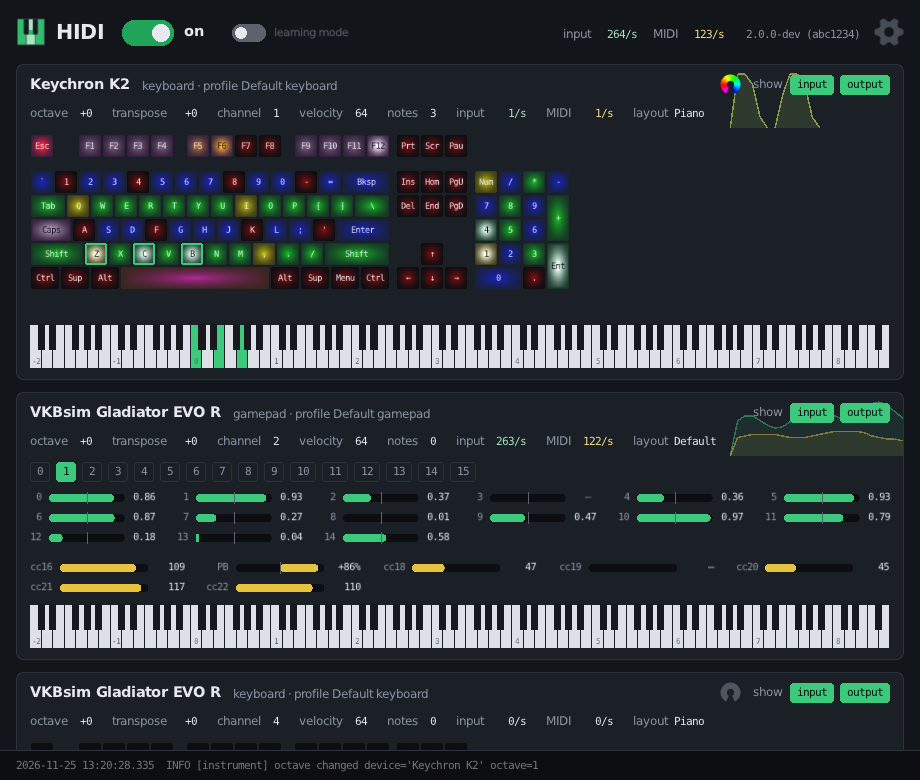
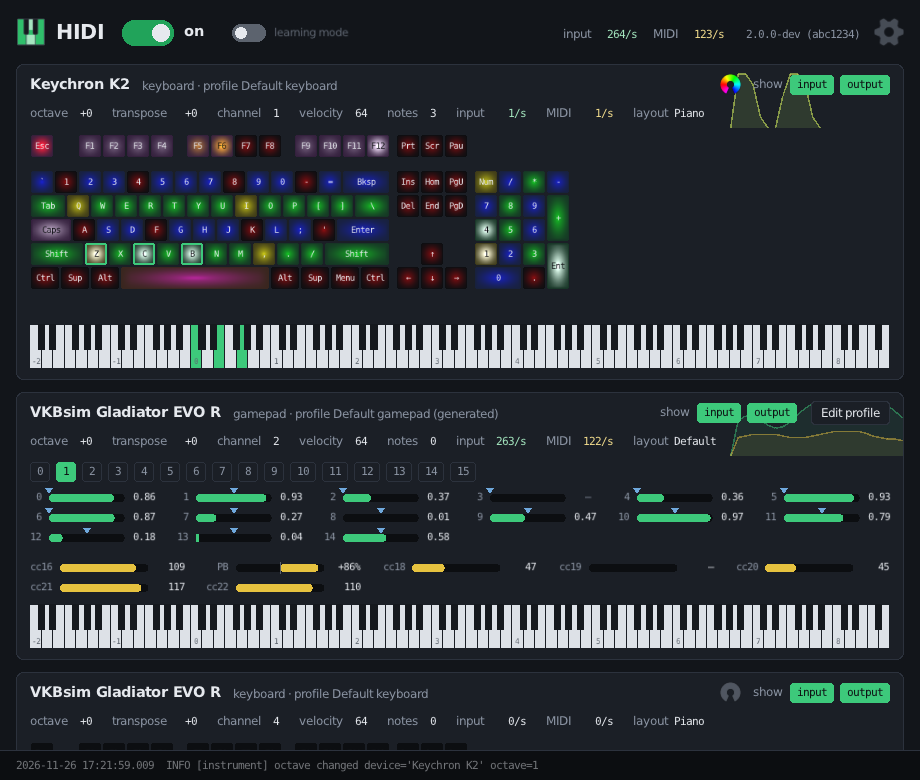
Documentation and pictures for the twelfth round
- README: "(factory override)" in the list of profiles; "(generated)"
  behind the name of a factory profile with a rule; the mark of where an
  axis rests; that what the profile page shows comes from the engine
  HIDI plays with; doubled controllers; detecting the axes that rest in
  the middle; dead zones in percent.
- docs/architecture.md: the page's engine of its own, and that nothing
  is reckoned a second time for the eye.
- docs/roadmap.md: the twelfth round as a table, with the cause of the
  profile that needed a restart and the answer about the 127 buttons.

The pictures of the window are taken anew.

Claude-Session: https://claude.ai/code/session_01BSpi87DutHCzCjSX2Ru5Rd

Changed region(s): [[0.7304, 0.4923, 0.9739, 0.5538], [0.4565, 0.5231, 0.5478, 0.5538]]

diff --git a/README.md b/README.md
@@ -294,7 +294,10 @@ Below them is HIDI's directory, with a button that opens it in the file
 manager, and every profile, also those of devices that are not connected,
 in two groups. "Yours" are your own: each has a switch that turns it off
 without removing it, "Edit", "Show in folder", and "Delete", which asks
-before it removes the file. "Factory" are the ones
+before it removes the file. One that stands in for a factory profile, for
+every device of a kind, says "(factory override)" in yellow and has a
+yellow switch; one for a single product looks like any other. "Factory"
+are the ones
 HIDI comes with, which it keeps as they are: "View" shows one, and
 "Customise" makes a copy of your own, used in its place, and opens it.
 
@@ -315,8 +318,10 @@ it.
 Opened from an instrument's card, the page is for that device, and says so
 beside the name of the profile: "for" and the name of the device. It shows
 what that device has and what the profile's rule makes of it, also where
-several controllers play with the same profile. A group of controls is
-marked "(generated)" where the profile names none of them.
+several controllers play with the same profile. A factory profile that
+gives most controls their parts by its rule says "(generated)" behind its
+name, here and on the card of an instrument that plays with it; a profile
+of your own does not.
 
 A keyboard's profile is drawn as a keyboard, coloured by what the keys do,
 and the keys that are down are marked. Keys the drawing has no place for,
@@ -328,14 +333,31 @@ A game controller's profile has three groups:
 - **Buttons** are chips, lit while pressed: the number of the button,
   "=>", and what it does ("12 => C2").
 - **Axes** are lines: the number, a bar for where the axis stands, "=>",
-  and what it is mapped to. A controller ("cc16") or the pitch bend
-  ("PB") is a chip that fills by the value it would send; a note or a
-  command lights up once the axis is past its trigger point.
+  and what it is mapped to. A small blue triangle above the bar points at
+  where the axis rests as the profile reads it: in the middle for a
+  stick, at an end for a lever. A controller ("cc16") or the pitch bend
+  ("PB") is a chip that fills by the value it sends; a note or a command
+  lights up while it counts as held.
 - **Hats** are lines with their two directions as two chips, each a
   button of its own.
 
 Numbers are the ones the main page shows. With "Name the controls of game
 controllers" the names profiles use stand beside them.
+
+What lights up and fills is not an estimate: the page runs the profile as
+it is shown through the same engine HIDI plays with, fed with what the
+device does, so dead zones, trigger points and the hysteresis show as they
+work, also while HIDI is off.
+
+Mappings ringed in yellow send a controller, or bend the pitch, that
+another control sends too. That is allowed, and the two overwrite each
+other.
+
+"Detect axes that rest in the middle", below the axes of a profile of your
+own, looks at where the axes stand at that moment: one within the given
+distance of its middle (10 % as it comes) is taken for a stick, the others
+for levers, and "rests in the middle" is set for all of them at once.
+Leave the controller alone when you press it.
 
 Click a control, or press it on the device, and make it play a note, send a
 controller, run a command, or do nothing. Drag one onto another to move
@@ -350,7 +372,7 @@ An axis can be anything a button can, and more:
   (a dead zone is then around the middle, the pitch bends both ways from
   there, and a controller counts 64 as its rest) and "reversed". The dead
   zone is the profile's, which is among the starting values at the top of
-  the page and 0 unless set; "own dead zone" gives the axis one of its
+  the page and 0 % unless set; "own dead zone" gives the axis one of its
   own;
 - a note or a command, triggered when the axis passes a point you set
   ("triggers at", half of its way unless changed). How far past the point

diff --git a/docs/roadmap.md b/docs/roadmap.md
@@ -86,6 +86,21 @@ is moved or resized on Windows. The branch is kept for when the change has
 found its way into raylib, or raylib-go 0.63 is taken up; it does not have
 the sixth round.
 
+### Twelfth round (26 November 2026): what was reported, and what was done
+
+| Reported or asked for | Done |
+|---|---|
+| A customised profile needed a restart to be used by devices that were playing | "Customise Default" makes a copy that reads exactly like the factory profile, and a device was only given another profile when the content differed. Two profiles are the same now if they are the same file, kind and content. |
+| "(generated)" is not seen; it belongs behind the name, and not on customised profiles | "Default gamepad (generated)" on the card and at the head of the page, for a factory profile with a rule. The marks on the groups are gone. |
+| 127 buttons, the mapping stops at button 91 | As meant: from C1 the notes end at G8, note 127, which is button 91. The buttons after it are there to be bound and play nothing by the rule. |
+| A button that detects axes which rest in the middle, with a range | "Detect axes that rest in the middle", within 10 % of the middle unless changed, on profiles that can be changed. Hats are not asked. |
+| Warn about two controls on one controller | Ringed in yellow, with a line of explanation; saving and using are not refused. |
+| The pitch bend's fill trembles | The clip it is drawn through rounded its corner and its size apart. Each edge is rounded by itself now. |
+| The line in the middle of the input bars | Replaced by a blue triangle above the bar at where the axis rests as the profile reads it, on the profile page and the main page. |
+| The page shows activation without the hysteresis | The page asks an engine of its own, the same code HIDI plays with, what is held and sent. |
+| Dead zones in percent | Done. |
+| Customised factory profiles distinct in the settings | "(factory override)" in yellow, and a yellow switch. |
+
 ### Eleventh round (26 November 2026): what was reported, and what was done
 
 | Reported or asked for | Done |

diff --git a/docs/architecture.md b/docs/architecture.md
@@ -445,9 +445,15 @@ back by hand leaves nothing to save.
 
 The page names what it changes by a `Spot`: a control, or one half of an
 axis. One function writes a role out as the right side of a binding, and
-every change goes through it. What a position of an axis would send is
-reckoned with the engine's own shaping (`engine.Source.Shape`), which is
-how the page shows values while HIDI is off.
+every change goes through it.
+
+What the page shows of the device at work comes from an engine of its own
+(`gui.Shadow`): the same `engine.Engine`, made of the profile as it is
+shown and the one layout that is shown, fed with the buttons and axes of
+the snapshot. The page asks it what is held, what each control sends and
+where each axis rests. There is no second reckoning of dead zones, trigger
+points or hysteresis for the eye, and what is shown is right while HIDI is
+off as well.
 
 The window's own widgets are a small kit over raylib (`kit` in `ui/gui`):
 buttons, switches, fields and steppers that take the pointer and the scale
